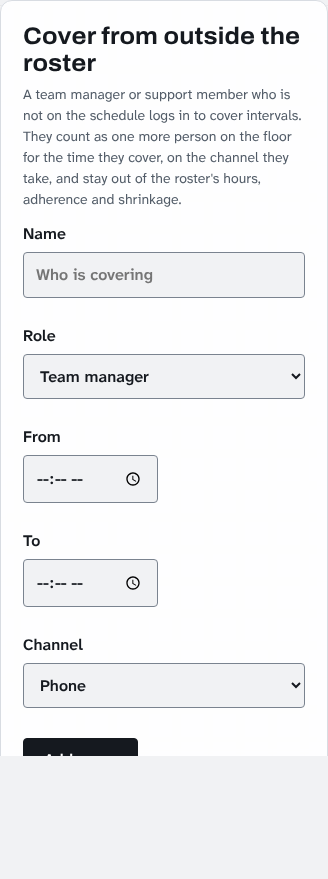
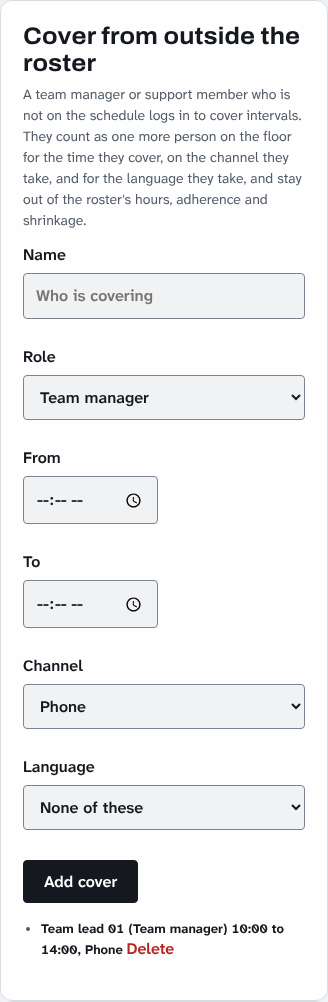
Phase AJ: second package recorded (items 4 and 5)
Claude-Session: https://claude.ai/code/session_012jkpuBfug5TnsMSqQWAuNe

diff --git a/docs/HANDOFF.md b/docs/HANDOFF.md
@@ -63,16 +63,21 @@ check it. What they cannot hold is the chat itself: when something here is not e
   cover from outside the roster (a TM or support member counted in the intervals), channel colours after midnight.
   Requests, root causes and answers: `evidence/phase_aj/REQUESTS.md`; checks: `evidence/phase_aj/CHECKS.md`; rulings
   at the end of `docs/superpowers/plans/2026-10-15-phase-aj-build.md`.
-- Package: `RC9_2_2_PRODUCTION_PACKAGE.zip`, 2602 files, 79.63 MB, sha256
[1 lines of base64/hex data omitted]
-  the owner's step, the same way as before (four parts now: `cat AJ_part_0 AJ_part_1 AJ_part_2 AJ_part_3 > ...`).
+- The first AJ package (sha256 `d2c474ae...`, items 1 to 3) is installed (owner, 2026-10-15). The second
+  (items 4 and 5: cover language, overtime warns instead of refusing on the rest gap) is
+  `RC9_2_2_PRODUCTION_PACKAGE.zip`, 2604 files, 79.64 MB, sha256
[1 lines of base64/hex data omitted]
+  the owner's step. In Cloud Shell `$SERVER` is lost when the shell restarts: it is set again from history (`!114`
+  on 2026-10-15), never asked for.
 - Check tools for a fresh container: `evidence/phase_aj/tools/` (replace phase_ai with phase_aj in the commands
   below). Expected on Phase AJ: 502 and 581 tests OK (1 skipped), 77 browser tests OK, GATE PASS with 1537 tests
   (2 skipped), page review 0 problems, sweep 0 exceptions and 0 server errors.
 
 ### Phase AJ decisions to remember
 
-- `OVERTIME_MAX` is 240 minutes, the longest "+ Add" length (owner, 2026-10-15).
+- `OVERTIME_MAX` is 240 minutes, the longest "+ Add" length (owner, 2026-10-15). Overtime breaking the rest gap is
+  kept with a warning (`_rest(..., refuse=False)`); call-ins still refuse; offers still keep the gap.
+- Cover takes a language (`outside_cover.language`, `DayBook.cover_languages`).
 - Cover from outside the roster: table `outside_cover`, `DayBook.add_cover` / `cancel_cover` / `covers`,
   `day_view(cover=...)` adds them to every 5 minutes (cell key `outside`), `page(cover=False)` leaves them out (the
   export's tick). Group posts go under the "overtime" kind.

diff --git a/evidence/phase_aj/CHECKS.md b/evidence/phase_aj/CHECKS.md
@@ -34,3 +34,21 @@ Checks run on code commit c9c0d29 (Thu 15 Oct 2026, finished about 18:20 Egypt t
   the tab's list name them.
 - From Phase AI, unchanged: one attendance box for a row holding two shifts in the RTA's 24 hours; three old
   unused imports.
+
+## Second package (items 4 and 5, Thu 15 Oct 2026, about 19:45 Egypt time)
+
+| # | Owner's item | What changed | Tests |
+| --- | --- | --- | --- |
+| 4 | Cover counts in the languages | Language field on the cover form (the program's languages, or none); counts for that language row and, on its channel, for the channel's language rows; the export's cover sheet has a Language column; databases from the first AJ package get the column on start | test_aj_cover (now 26) |
+| 5 | Overtime breaking the rest gap should warn, not stop | Kept, with the warning on the page, in the + Add preview and in the day's log line | test_aj_rest (5); re-pinned with the reason: test_attendance (2 tests) |
+
+Interface and writing reviews (web-interface-guidelines, better-writing) on the cover form: the name field is not
+spell-checked, each Delete names its cover for screen readers, and three refusals now say what to do next.
+
+Checks on code commit 6a0716c: website suite 584 OK and 510 OK (1 skipped); browser tests 77 OK; GATE PASS, 1537
+tests (2 skipped), run inside the package build; page review 0 problems; route sweep 872 requests, 0 exceptions, 0
+server errors (the same 2 leaks and 222 "None" words by design).
+
+Package: `RC9_2_2_PRODUCTION_PACKAGE.zip`, 2604 files, 79.64 MB, sha256
[1 lines of base64/hex data omitted]
+(`evidence/phase_aj/RELEASE_NOTES.md`) were written after the build copied its files, so they are sent beside it.
